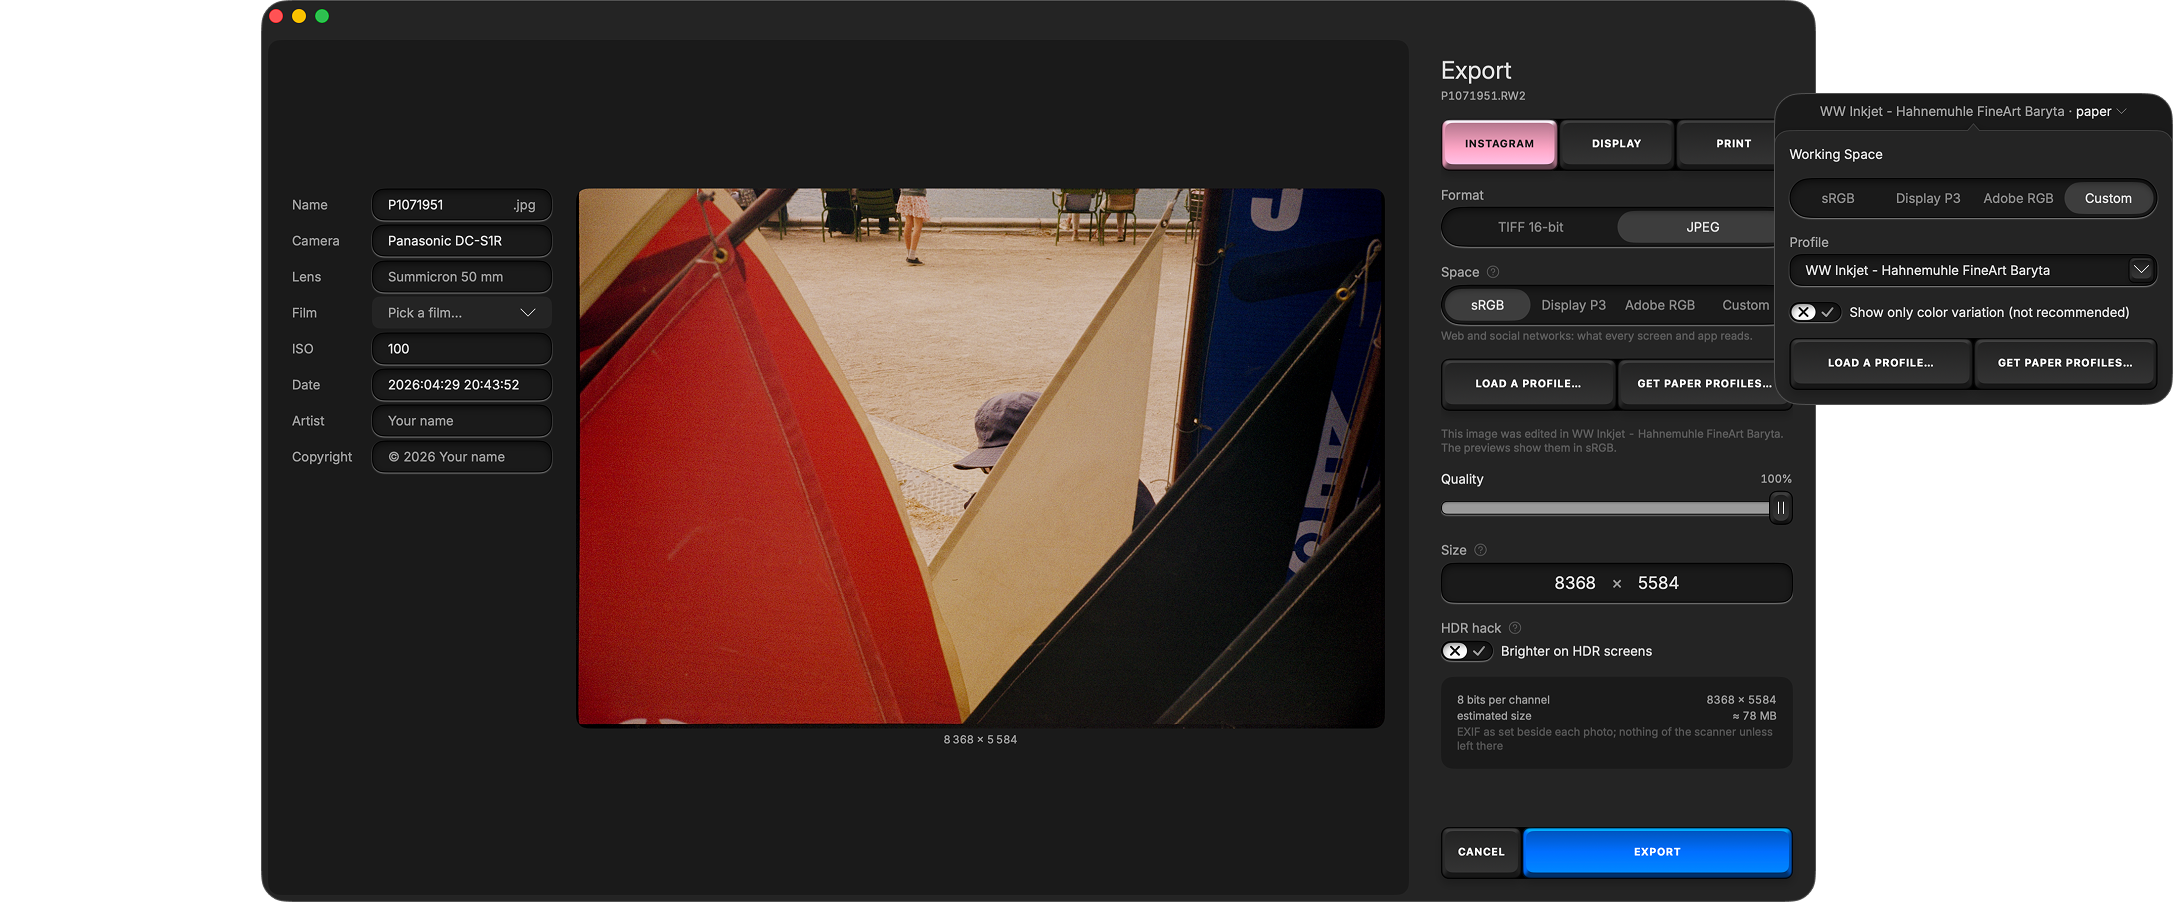
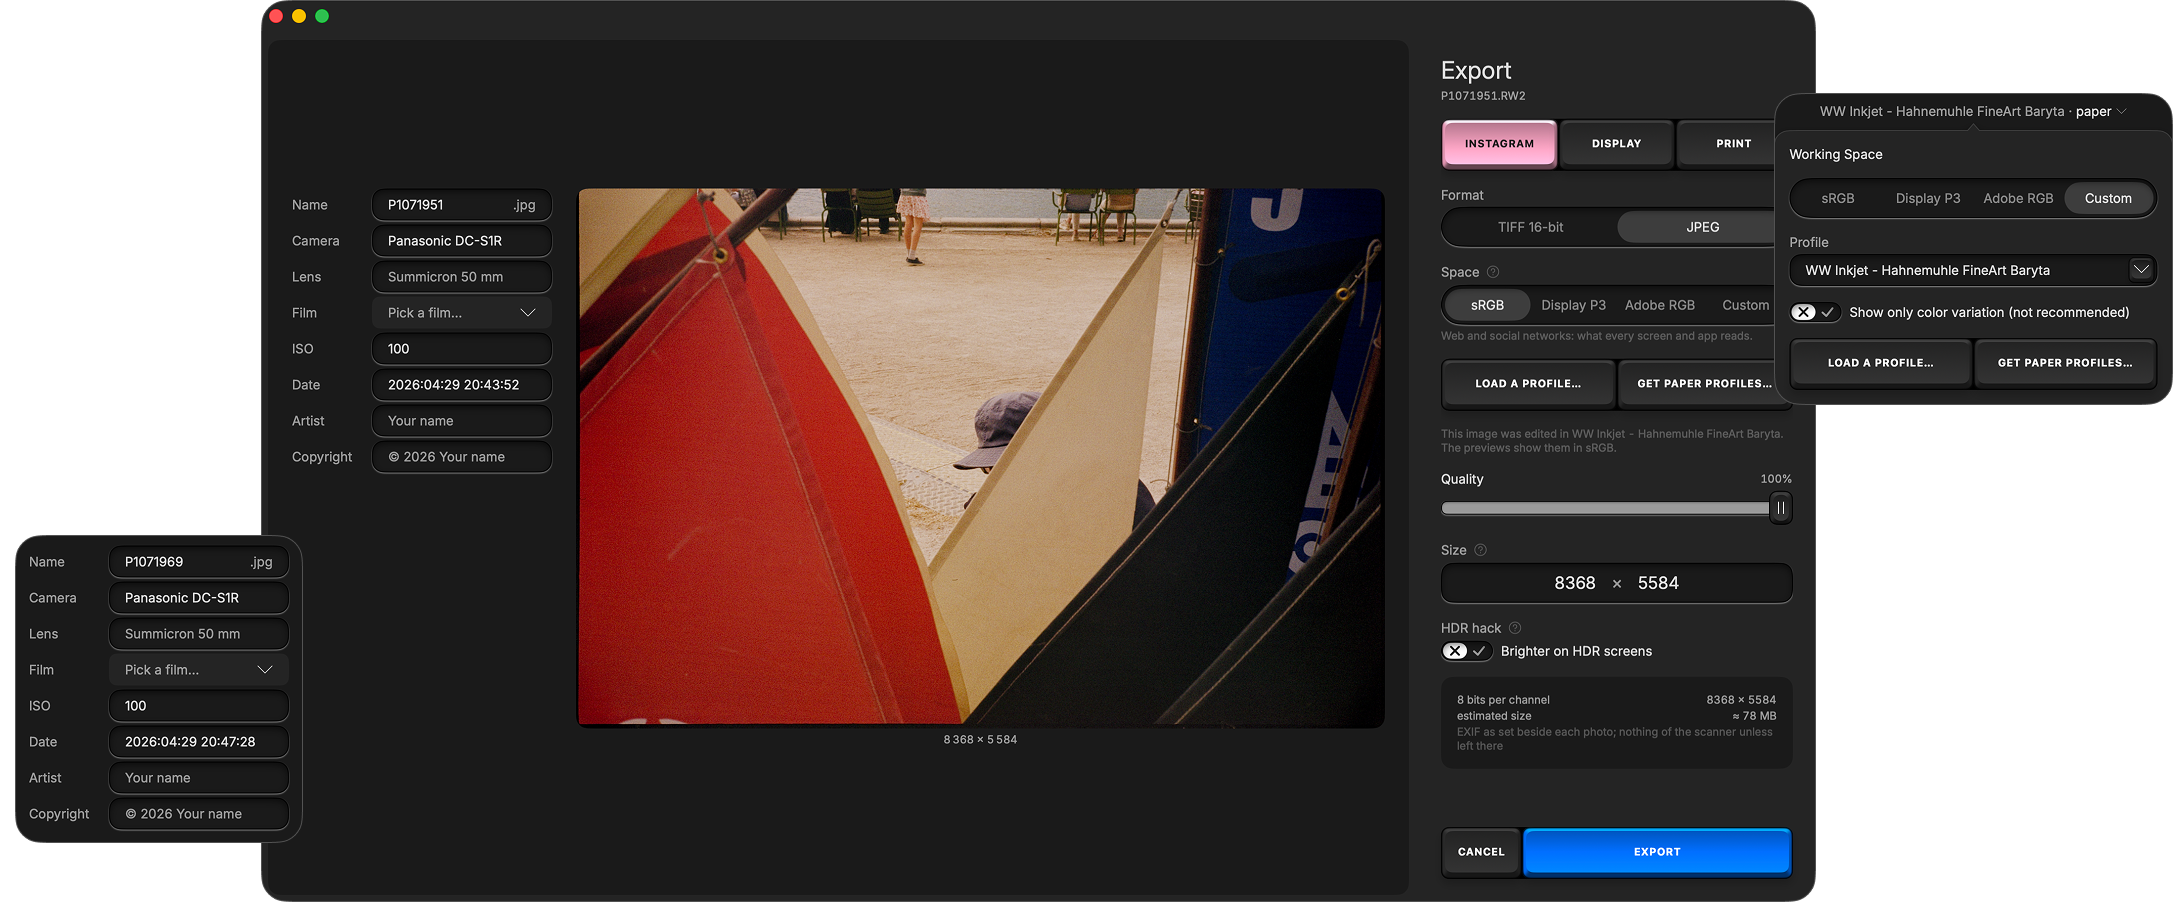
README: the export image carries its EXIF fields

Changed region(s): [[0.0, 0.5898, 0.1233, 0.9623]]

diff --git a/README.md b/README.md
@@ -108,7 +108,7 @@
   written.
 
 <p align="center">
-  <img src="assets/export.png" alt="The Export screen: the frame's EXIF fields on the left, a colour frame of sails in the middle, and the INSTAGRAM, DISPLAY and PRINT presets, Format, Space, Quality, Size and the HDR hack switch on the right, with the working space menu on a paper profile laid over its right edge">
+  <img src="assets/export.png" alt="The Export screen: the frame's EXIF fields on the left, a colour frame of sails in the middle, and the INSTAGRAM, DISPLAY and PRINT presets, Format, Space, Quality, Size and the HDR hack switch on the right, with the EXIF fields laid over its left edge and the working space menu on a paper profile over its right edge">
 </p>
 
 ## Installing
